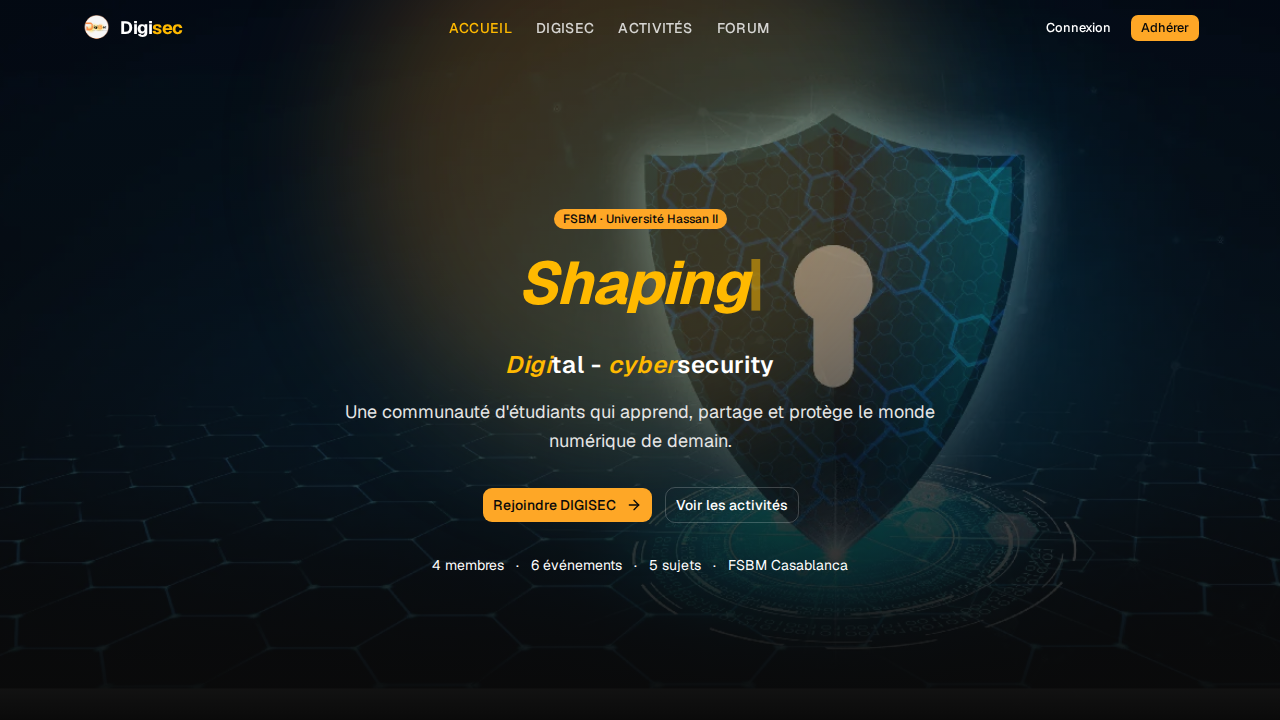
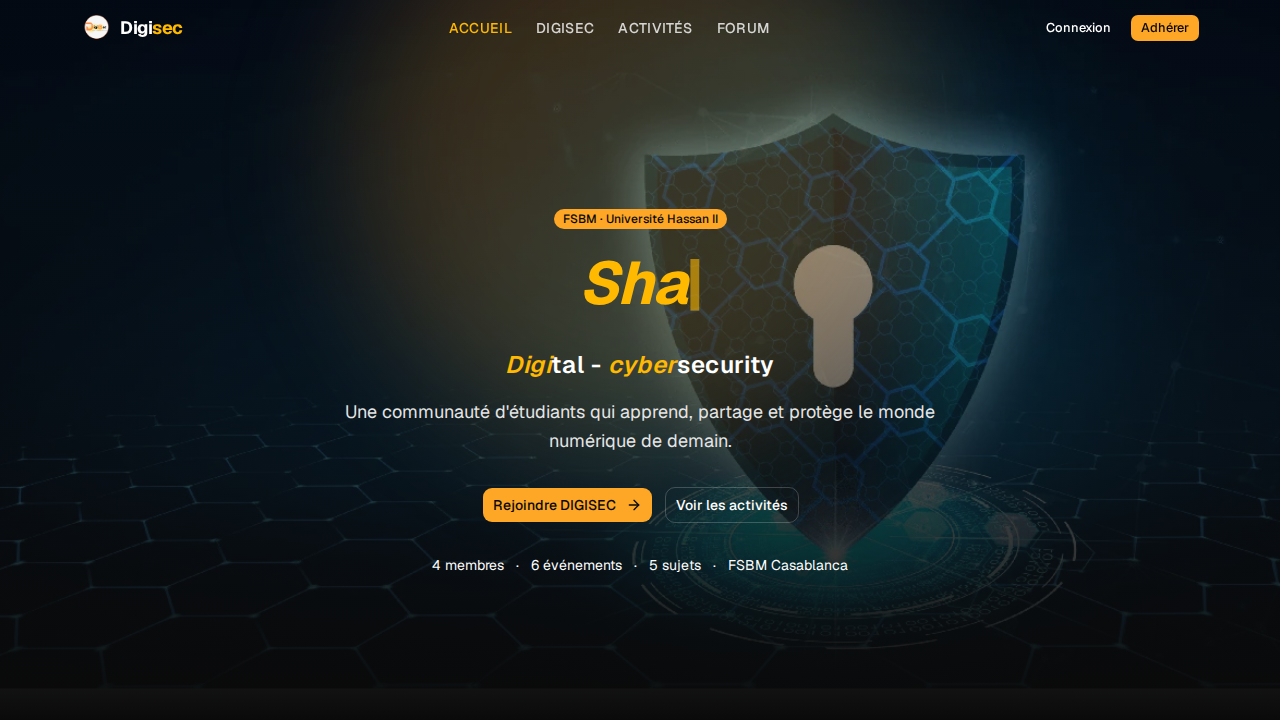
feat(ui): remove homepage carousel gallery and unused embla deps

Changed region(s): [[0.4062, 0.3667, 0.5938, 0.4583]]

diff --git a/ui/src/components/home/HomeContent.tsx b/ui/src/components/home/HomeContent.tsx
@@ -1,6 +1,5 @@
 import { Link } from 'react-router-dom'
 import { ArrowRight, ShieldCheck, Users } from 'lucide-react'
-import Autoplay from 'embla-carousel-autoplay'
 import { Button } from '@/components/ui/button'
 import {
   Card,
@@ -9,10 +8,7 @@ import {
   CardHeader,
   CardTitle,
 } from '@/components/ui/card'
-import { Carousel, CarouselContent, CarouselItem } from '@/components/ui/carousel'
 import { SectionDivider } from '@/components/layout/SectionDivider'
-
-const CAROUSEL_IMAGES = [1, 2, 4, 5, 6, 7]
 
 export function HomeContent() {
   return (
@@ -63,27 +59,6 @@ export function HomeContent() {
         </div>
       </section>
       <SectionDivider fill="fill-background" wrapperClassName="bg-neutral-950" />
-
-      <section className="mx-auto max-w-6xl px-4 py-16">
-        <Carousel
-          opts={{ align: 'start', loop: true }}
-          plugins={[Autoplay({ delay: 3000, stopOnInteraction: true })]}
-          className="w-full"
-        >
-          <CarouselContent>
-            {CAROUSEL_IMAGES.map((image) => (
-              <CarouselItem key={image} className="md:basis-1/2 lg:basis-1/3">
-                <img
-                  src={`/images/carousel/${image}.jpg`}
-                  alt={`Moment fort DIGISEC ${image}`}
-                  loading="lazy"
-                  className="aspect-video w-full rounded-xl object-cover"
-                />
-              </CarouselItem>
-            ))}
-          </CarouselContent>
-        </Carousel>
-      </section>
 
       <section className="mx-auto grid max-w-6xl items-center gap-10 px-4 pb-20 md:grid-cols-2">
         <div className="order-2 md:order-1">

diff --git a/e2e/public.spec.ts b/e2e/public.spec.ts
@@ -1,16 +1,10 @@
 import { expect, test } from '@playwright/test'
 
 test.describe('public pages', () => {
-  test('home renders hero, sections and carousel', async ({ page }) => {
+  test('home renders hero and sections', async ({ page }) => {
     await page.goto('/')
     await expect(page.getByRole('heading', { name: /digisec/i }).first()).toBeVisible()
     await expect(page.getByText('IMPACT')).toBeVisible()
-    // Curated set — keep in sync with CAROUSEL_IMAGES in
-    // ui/src/components/home/HomeContent.tsx (image 3 was repurposed as
-    // the opportunités section illustration, not a carousel slide).
-    for (const image of [1, 2, 4, 5, 6, 7]) {
-      await expect(page.getByAltText(`Moment fort DIGISEC ${image}`)).toBeAttached()
-    }
     await expect(page.getByAltText('Atelier DIGISEC')).toBeAttached()
   })
 

diff --git a/ui/src/test/Home.test.tsx b/ui/src/test/Home.test.tsx
@@ -30,18 +30,6 @@ describe('Home page', () => {
     expect(screen.getByText(/cœur/i, { selector: 'span' })).toBeInTheDocument()
     expect(screen.getByText('IMPACT')).toBeInTheDocument()
     expect(screen.getByText(/opportunités/i)).toBeInTheDocument()
-  })
-
-  it('renders the carousel slides without the opportunites image', () => {
-    renderWithProviders(<Home />)
-
-    for (const image of [1, 2, 4, 5, 6, 7]) {
-      expect(screen.getByAltText(`Moment fort DIGISEC ${image}`)).toHaveAttribute(
-        'src',
-        `/images/carousel/${image}.jpg`,
-      )
-    }
-    expect(screen.queryByAltText('Moment fort DIGISEC 3')).not.toBeInTheDocument()
     expect(screen.getByAltText('Atelier DIGISEC')).toHaveAttribute(
       'src',
       '/images/home/opportunites.jpg',
